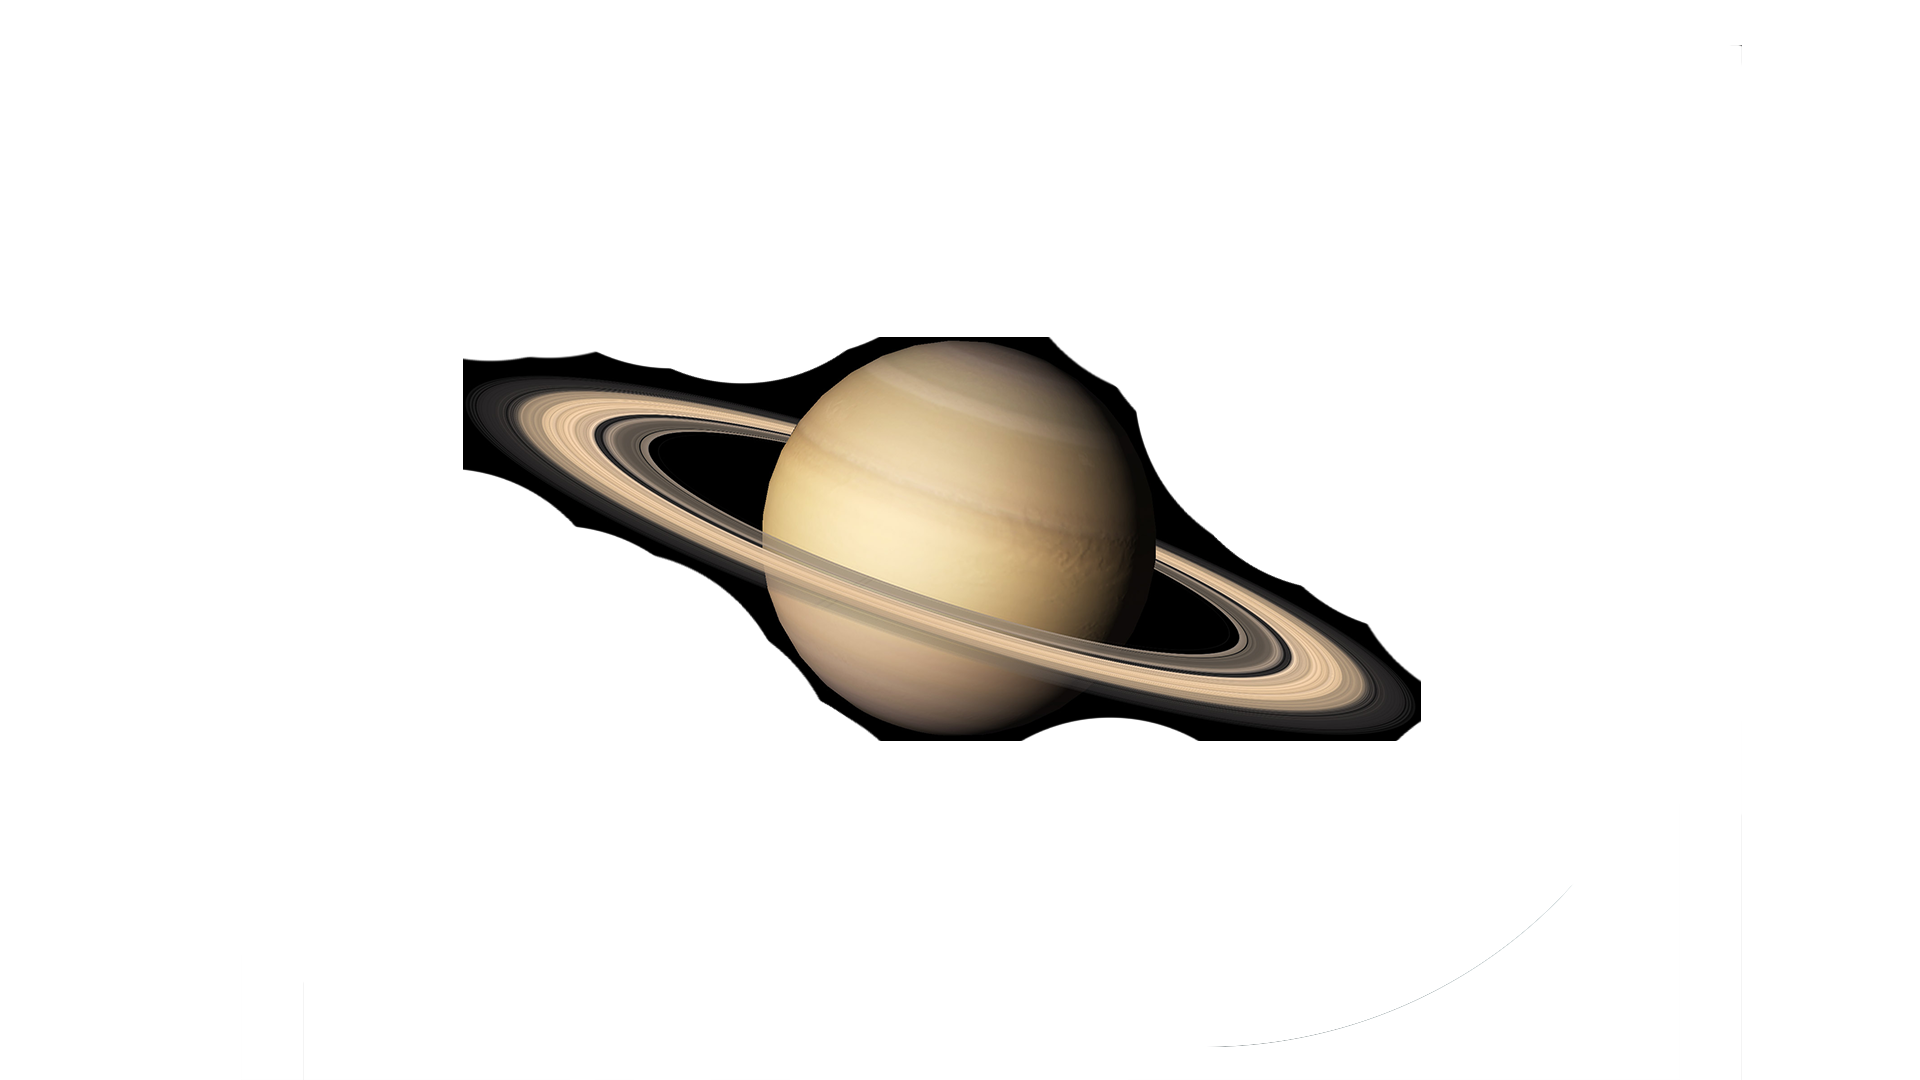
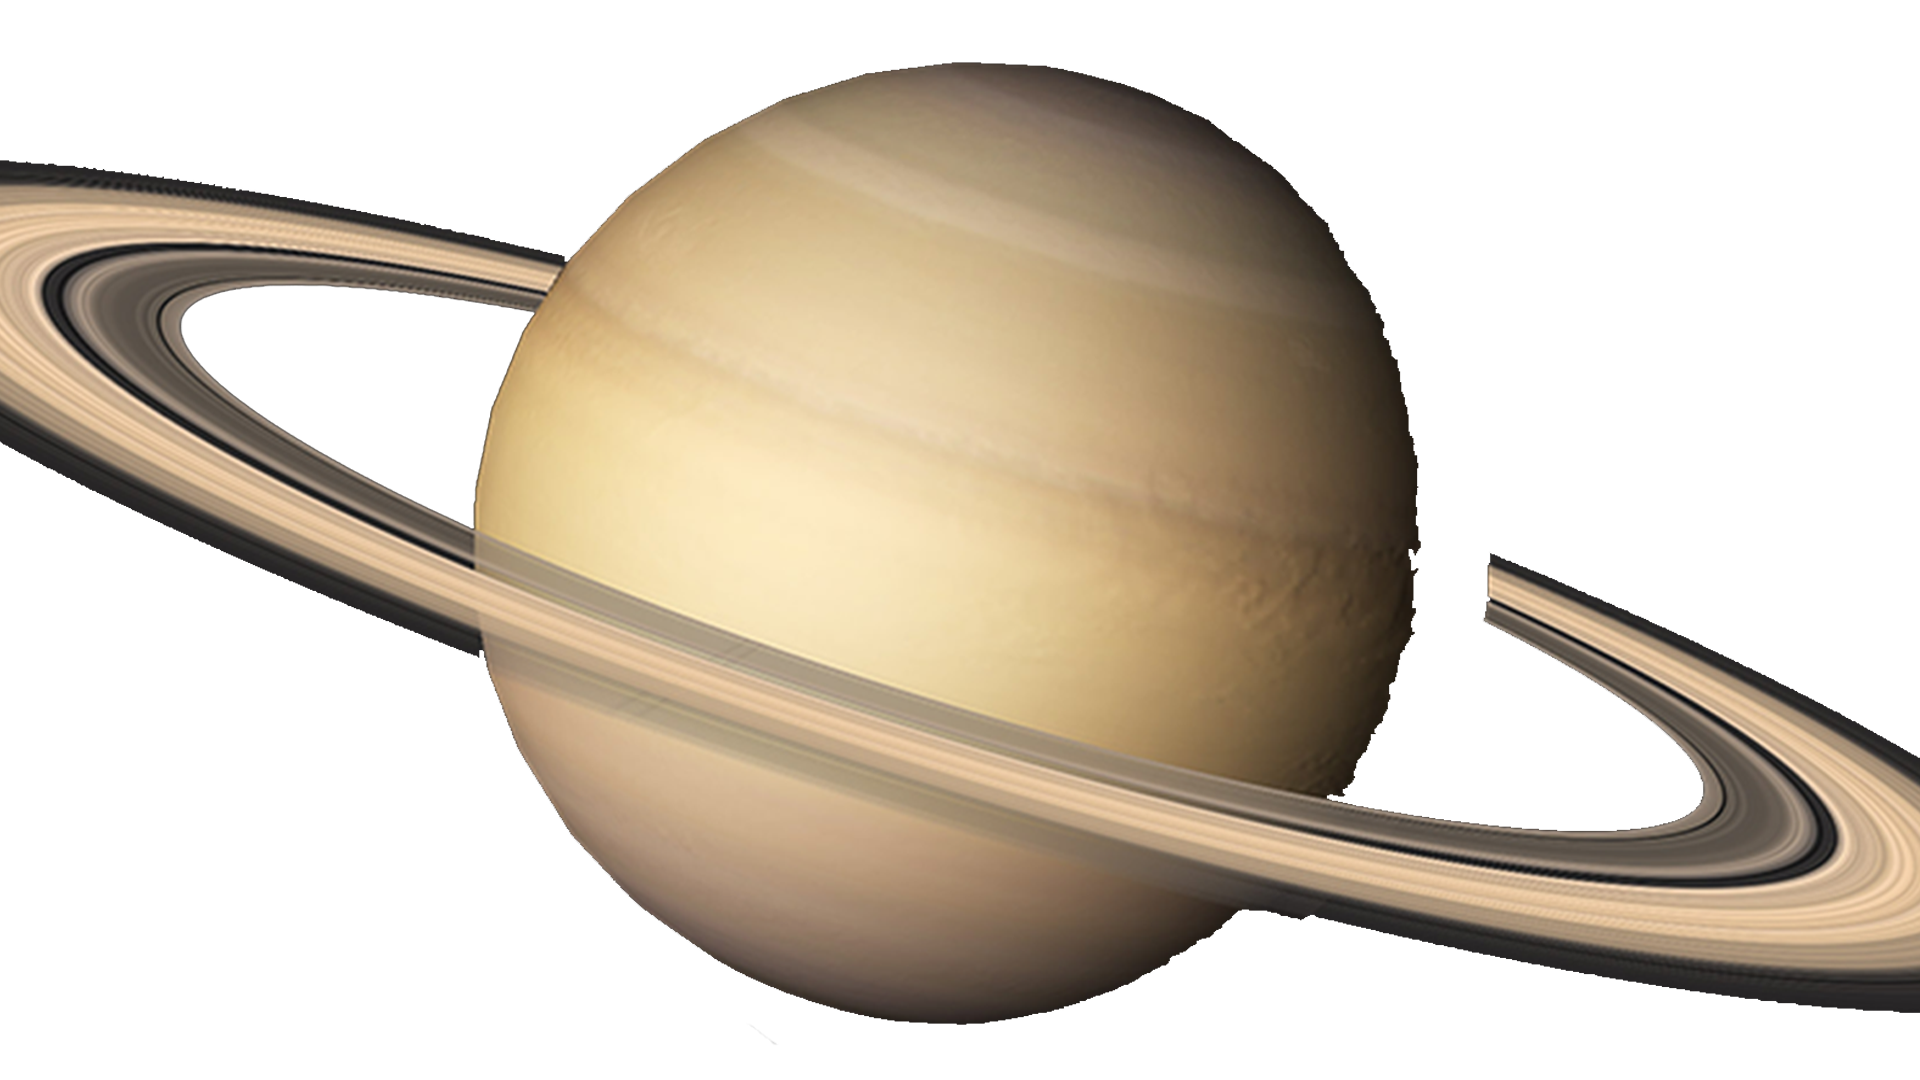
Updates
Div class and images

diff --git a/css/style.css b/css/style.css
@@ -11,47 +11,12 @@ body {
   height: 100%;
 }
 /*    Backgrounds for the Planets   */                                       
-.BackgroundMercury{
+.Background{
 	position:absolute;
 	right:45%;
 	top:10%;
 }
-.BackgroundVenus{
-	position:absolute;
-	bottom:1%;
-	left:8%;
-}
-.BackgroundEarth{
-	position:absolute;
-	left:8%;
-	top:1%;
-	
-}
-.BackgroundMars{
-	position:absolute;
-	left:11%;
-	top:6%;
-}
-.BackgroundJupiter{
-	position:absolute;
-	left:-6%;
-	top:5%;
-}
-.BackgroundSaturn{
-	position:absolute;
-	left:-20%;
-	top: -7%;
-}
-.BackgroundUranus{
-	position:absolute;
-	right:30%;
-	top:4%;
-}
-.BackgroundNeptune{
-	position:absolute;
-	right:45%;
-	top:15%;
-}
+
 /*    Backgrounds for the Planets   */   
 .Header{
   position: absolute;

diff --git a/index.php b/index.php
@@ -32,6 +32,7 @@
 	<div id="container">
 		<div id="mySidenav" class="sidenav">
 			<button class="closebtn" onclick="navBar()">&times;</button>
+			<button onclick=fadeClick('#newsletterContainer') class='planetButton'>Newsletter</button>
 			<button onclick=fadeClick('#mercuryContainer') class='planetButton'>Mercury</button>
 			<button onclick=fadeClick('#venusContainer') class='planetButton'>Venus</button>
 			<button onclick=fadeClick('#earthContainer') class='planetButton'>Earth</button>
@@ -40,7 +41,7 @@
 			<button onclick=fadeClick('#saturnContainer') class='planetButton'>Saturn</button>
 			<button onclick=fadeClick('#uranusContainer') class='planetButton'>Uranus</button>
 			<button onclick=fadeClick('#neptuneContainer') class='planetButton'>Neptune</button>
-			<button onclick=fadeClick('#newsletterContainer') class='planetButton'>Newsletter</button>
+			
 		</div>
 
 		<div id="main">
@@ -55,7 +56,7 @@
 
 				<div class="Header">Welcome to Mercury</div>
 
-				<div class="BackgroundMercury">
+				<div class="Background">
 					<img src="img/Mercury.png" alt="Murcury" Width="120%" height="120%" >
 				</div>
 
@@ -118,8 +119,8 @@
 
 				<div class="Header">Welcome to Venus</div>
 
-				<div class="BackgroundVenus">
-					<img src="IMG/Venus.png" alt="Venus" Width="75%" height="75%">
+				<div class="Background">
+					<img src="IMG/Venus.png" alt="Venus" Width="120%" height="120%">
 				</div>
 
 				<div class='TextOuterDiv'>
@@ -174,8 +175,8 @@
 				
 				<div class="Header">Welcome to Earth</div>
 
-				<div class="BackgroundEarth">
-					<img src="IMG/Earth.png" alt="Venus" Width="52%" height="51%">
+				<div class="Background">
+					<img src="IMG/Earth.png" alt="Venus" Width="120%" height="120%">
 				</div>
 
 				<div class='TextOuterDiv'>
@@ -228,8 +229,8 @@
 
 				<div class="Header">Welcome to Mercury</div>
 
-				<div class="BackgroundMars">
-					<img src="img/Mars.jpg" alt="Murcury" Width="47%" height="47%">
+				<div class="Background">
+					<img src="img/Mars.png" alt="Murcury" Width="120%" height="120%">
 				</div>
 
 				<div class='TextOuterDiv'>
@@ -279,8 +280,8 @@
 			<div id="jupiterContainer" class='fade planet' style="background-color:black; ">
 				<div class="Header">Welcome to Jupiter</div>
 
-				<div class="BackgroundJupiter">
-					<img src="img/Jupiter.png" alt="Murcury" Width="78%" height="80%">
+				<div class="Background">
+					<img src="img/Jupiter.png" alt="Murcury" Width="120%" height="120%">
 				</div>
 
 				<div class='TextOuterDiv'>
@@ -334,8 +335,8 @@
 
 				<div class="Header">Welcome to Saturn</div>
 
-				<div class="BackgroundSaturn">
-					<img src="img/Saturn.png" alt="Murcury" Width="103%" height="103%">
+				<div class="Background">
+					<img src="img/Saturn.png" alt="Murcury" Width="120%" height="120%">
 				</div>
 
 				<div class='TextOuterDiv'>
@@ -389,8 +390,8 @@
 
 				<div class="Header">Welcome to Uranus</div>
 
-				<div class="BackgroundUranus">
-					<img src="img/Uranus.png" alt="Murcury" Width="90%" height="90%">
+				<div class="Background">
+					<img src="img/Uranus.png" alt="Murcury" Width="120%" height="120%">
 				</div>
 
 				<div class='TextOuterDiv'>
@@ -443,8 +444,8 @@
 
 				<div class="Header">Welcome to Neptune</div>
 
-				<div class="BackgroundNeptune">
-					<img src="img/Neptune.png" alt="Murcury" Width="85%" height="85%">
+				<div class="Background">
+					<img src="img/Neptune.png" alt="Murcury" Width="120%" height="120%">
 				</div>
 
 				<div class='TextOuterDiv'>
